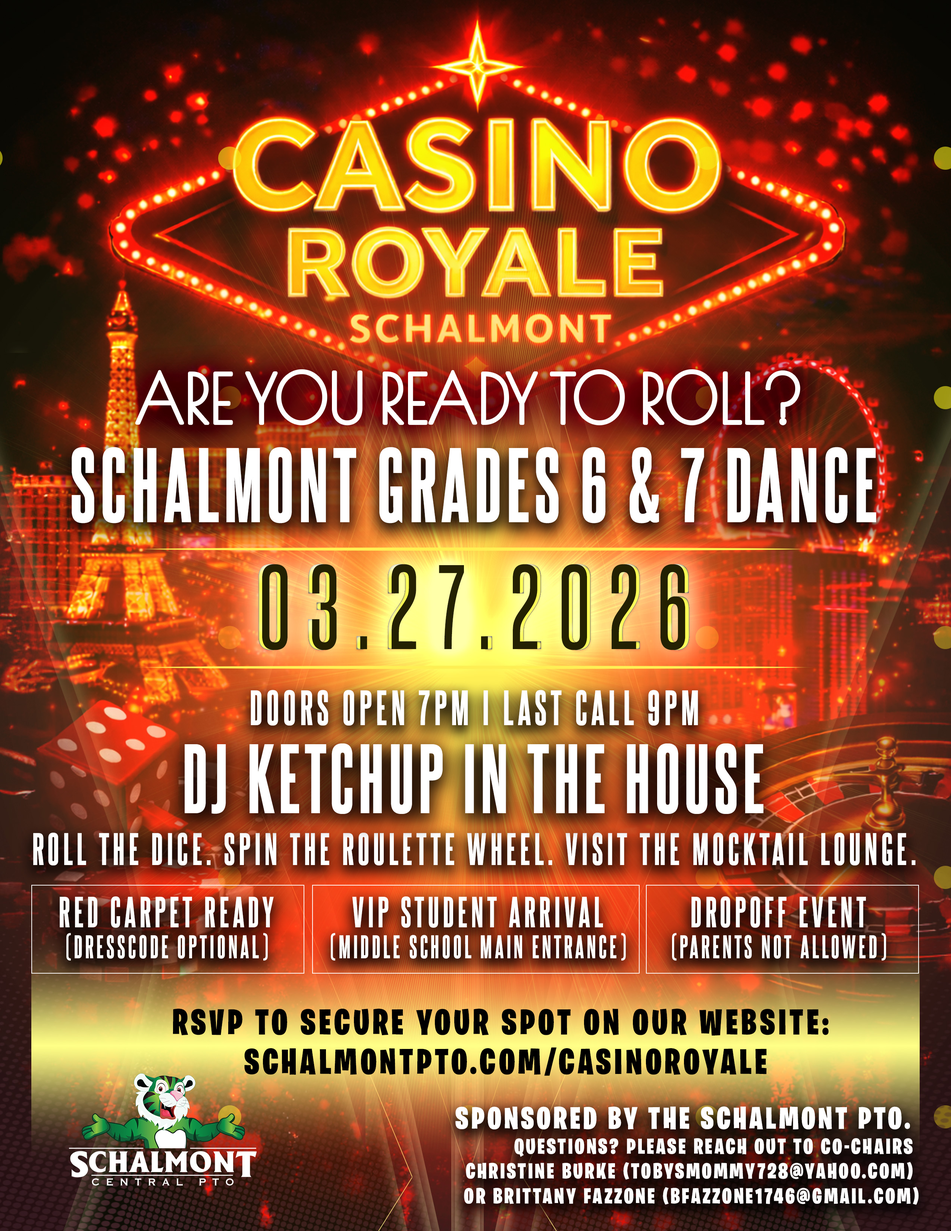
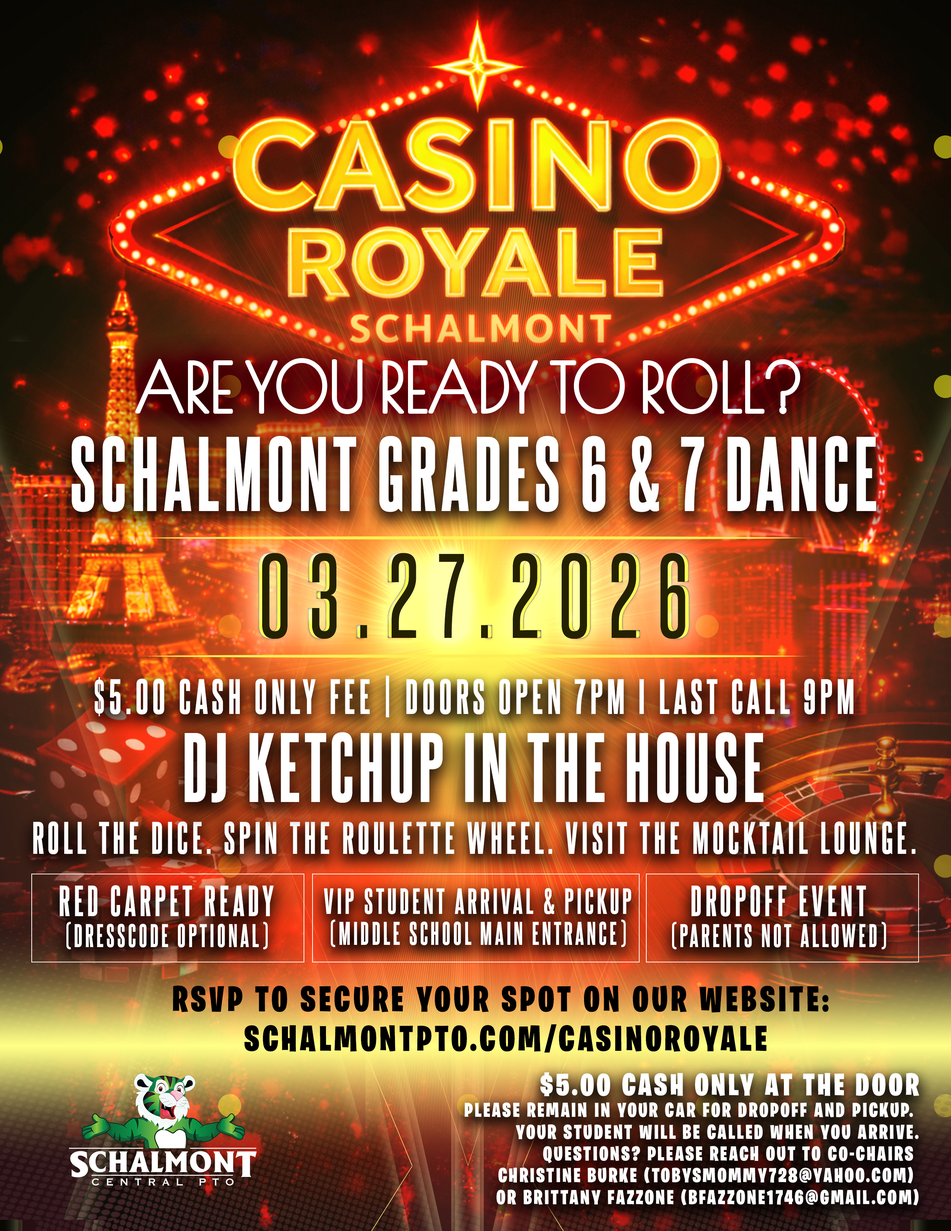
Remove past events from upcoming; update casino invite image and price to $5

diff --git a/index.html b/index.html
@@ -600,9 +600,7 @@
           <h3 style="font-size:15px;font-weight:800;margin-bottom:4px;color:var(--primary)">Upcoming Events</h3>
           <p style="font-size:12px;color:var(--text-light);margin-bottom:16px">Dates &amp; deadlines to know</p>
           <ul style="list-style:none;display:flex;flex-direction:column;gap:0">
-            <li class="upc-item" data-gcal-dates="20260316/20260317" data-gcal-text="Lucky Bingo Night – Schalmont Middle School"><span class="upc-dot" style="background:#087d40"></span><div><span class="upc-date">Mar 16</span><span class="upc-name"><a href="bingo-night.html">Lucky Bingo Night</a></span><span class="upc-school" style="color:#087d40">Middle School</span></div></li>
             <li class="upc-item" data-gcal-dates="20260319/20260320" data-gcal-text="PTO Meeting"><span class="upc-dot" style="background:#0B8043"></span><div><span class="upc-date">Mar 19</span><span class="upc-name"><a href="meetings.html">PTO Meeting</a></span><span class="upc-school" style="color:#0B8043">All Schools</span></div></li>
-            <li class="upc-item" data-gcal-dates="20260321/20260322" data-gcal-text="3rd/4th Grade Dance – Jefferson Elementary PTO"><span class="upc-dot" style="background:#6bb044"></span><div><span class="upc-date">Mar 21</span><span class="upc-name"><a href="glitz-and-glam-dance.html">3rd/4th Grade Dance</a></span><span class="upc-school" style="color:#6bb044">Jefferson</span></div></li>
             <li class="upc-item" data-gcal-dates="20260327/20260328" data-gcal-text="6/7 Casino Night – Schalmont Middle School"><span class="upc-dot" style="background:#087d40"></span><div><span class="upc-date">Mar 27</span><span class="upc-name"><a href="casinoroyale.html">6/7 Casino Night</a></span><span class="upc-school" style="color:#087d40">Middle School</span></div></li>
             <li class="upc-item" data-gcal-dates="20260407/20260412" data-gcal-text="Spring Break – Schalmont District"><span class="upc-dot" style="background:#039BE5"></span><div><span class="upc-date">Apr 7–11</span><span class="upc-name">Spring Break</span><span class="upc-school" style="color:#039BE5">District</span></div></li>
             <li class="upc-item" data-gcal-dates="20260408T140000/20260408T163000" data-gcal-text="Bounce House Blast – Princetown Church"><span class="upc-dot" style="background:#f97316"></span><div><span class="upc-date">Apr 8</span><span class="upc-name"><a href="bounce-house-blast.html">Bounce House Blast</a></span><span class="upc-school" style="color:#f97316">Princetown Church</span></div></li>

diff --git a/casinoroyale.html b/casinoroyale.html
@@ -202,9 +202,9 @@
             Join us for an exciting Casino Night themed dance for Schalmont Middle School 6th and 7th graders! Enjoy casino-style games, great music, and a fun night out with your friends.
           </p>
 
-          <!-- $6 CASH ONLY BANNER -->
+          <!-- $5 CASH ONLY BANNER -->
           <div style="background:#7f1d1d;color:#fff;border-radius:var(--radius-lg);padding:18px 20px;margin-bottom:20px;text-align:center">
-            <div style="font-size:clamp(20px,3vw,26px);font-weight:900;letter-spacing:0.5px;margin-bottom:4px">💵 $6 CASH ONLY AT THE DOOR</div>
+            <div style="font-size:clamp(20px,3vw,26px);font-weight:900;letter-spacing:0.5px;margin-bottom:4px">💵 $5 CASH ONLY AT THE DOOR</div>
             <div style="font-size:14px;opacity:0.9;font-weight:600">No cards, no pre-purchase — exact change appreciated!</div>
           </div>
 
@@ -256,7 +256,7 @@
 
         <!-- Reminder banner inside form area -->
         <div style="background:#7f1d1d;color:#fff;border-radius:var(--radius-lg);padding:14px 20px;margin-bottom:24px;text-align:center;font-weight:800;font-size:clamp(16px,2.5vw,20px);letter-spacing:0.3px">
-          💵 $6 CASH ONLY AT THE DOOR &nbsp;·&nbsp; Middle School Main Entrance
+          💵 $5 CASH ONLY AT THE DOOR &nbsp;·&nbsp; Middle School Main Entrance
         </div>
 
         <div style="background:#fff;border-radius:var(--radius-lg);padding:32px;box-shadow:0 8px 32px rgba(0,0,0,0.18)">
